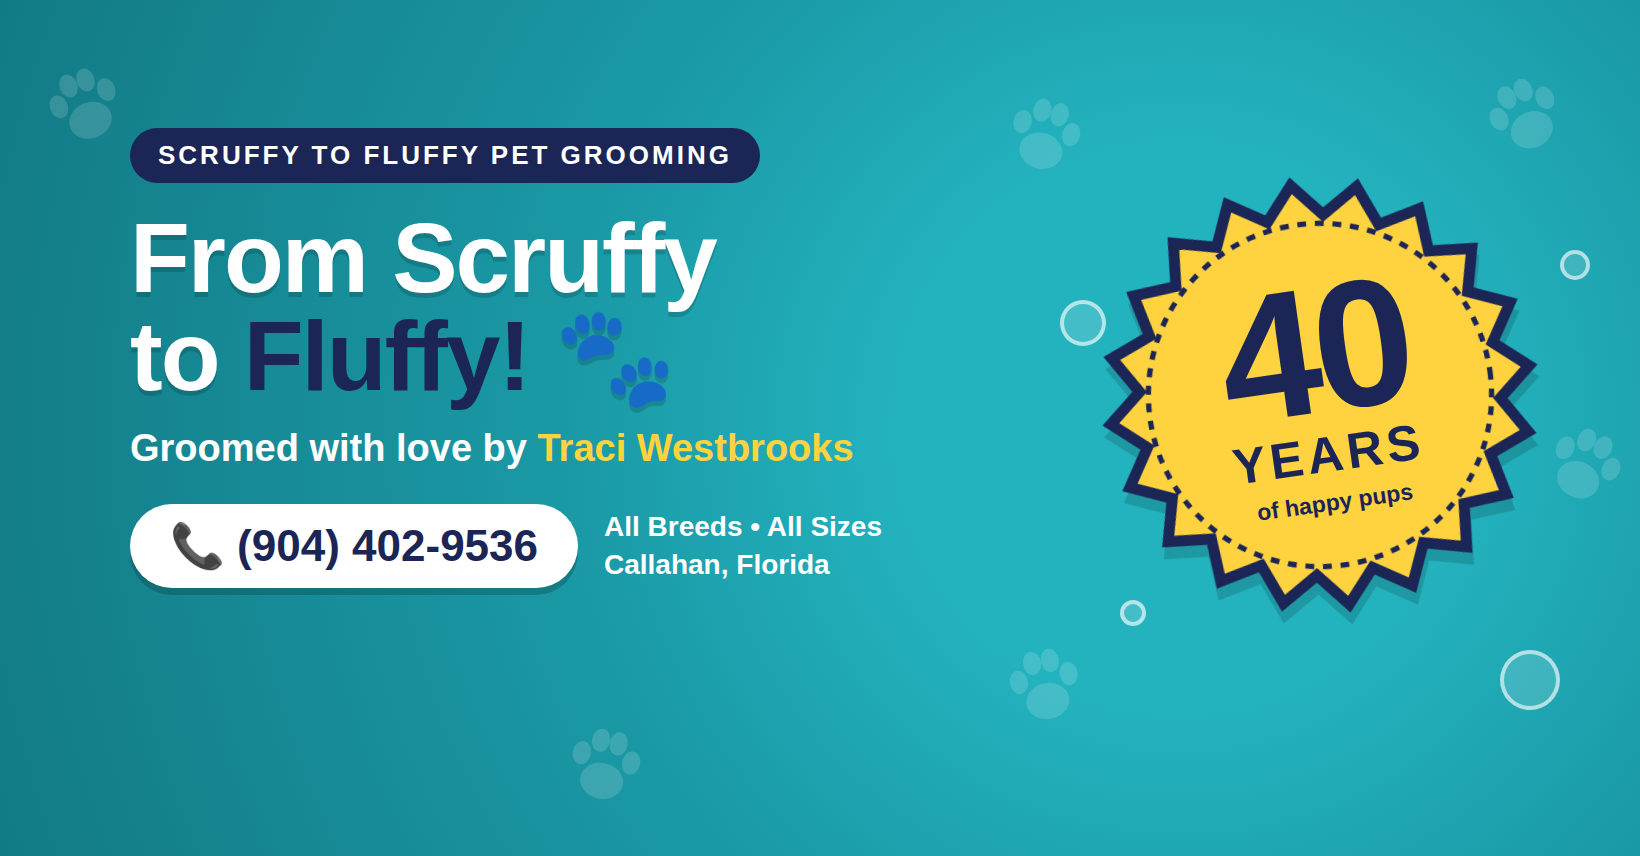
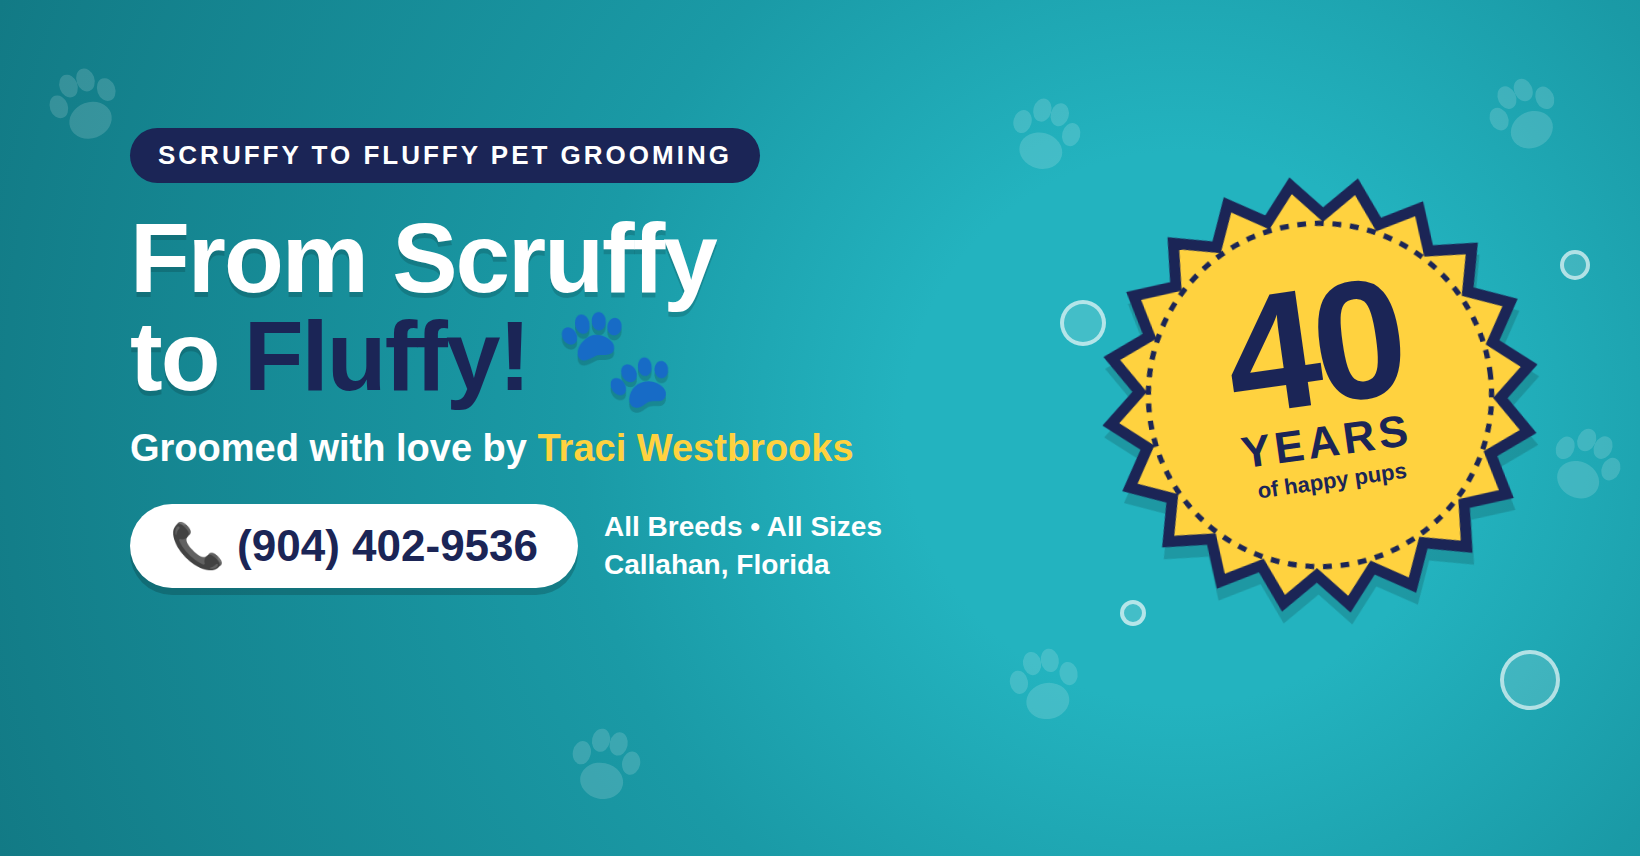
Fit 'of happy pups' inside the 40 YEARS badge on Facebook cover
Claude-Session: https://claude.ai/code/session_014UiJU7SCvaTHih2WGcjSTy

Changed region(s): [[0.7463, 0.3341, 0.8707, 0.6075]]

diff --git a/ads/dog-grooming/facebook-cover.html b/ads/dog-grooming/facebook-cover.html
@@ -30,10 +30,10 @@
   .seal { position: absolute; left: 1100px; top: 175px; width: 440px; height: 440px; transform: rotate(-8deg); }
   .seal svg { position: absolute; inset: 0; filter: drop-shadow(0 12px 0 rgba(0,0,0,.15)); }
   .seal .in { position: absolute; inset: 0; display: flex; flex-direction: column; align-items: center; justify-content: center;
-              color: var(--navy); text-align: center; }
-  .seal .num { font-size: 180px; font-weight: 900; line-height: .85; letter-spacing: -6px; }
-  .seal .yrs { font-size: 50px; font-weight: 900; letter-spacing: 4px; }
-  .seal .of { font-size: 23px; font-weight: 800; margin-top: 6px; }
+              color: var(--navy); text-align: center; padding-bottom: 20px; }
+  .seal .num { font-size: 168px; font-weight: 900; line-height: .85; letter-spacing: -6px; }
+  .seal .yrs { font-size: 44px; font-weight: 900; letter-spacing: 4px; }
+  .seal .of { font-size: 22px; font-weight: 800; margin-top: 2px; }
 </style>
 </head>
 <body>
